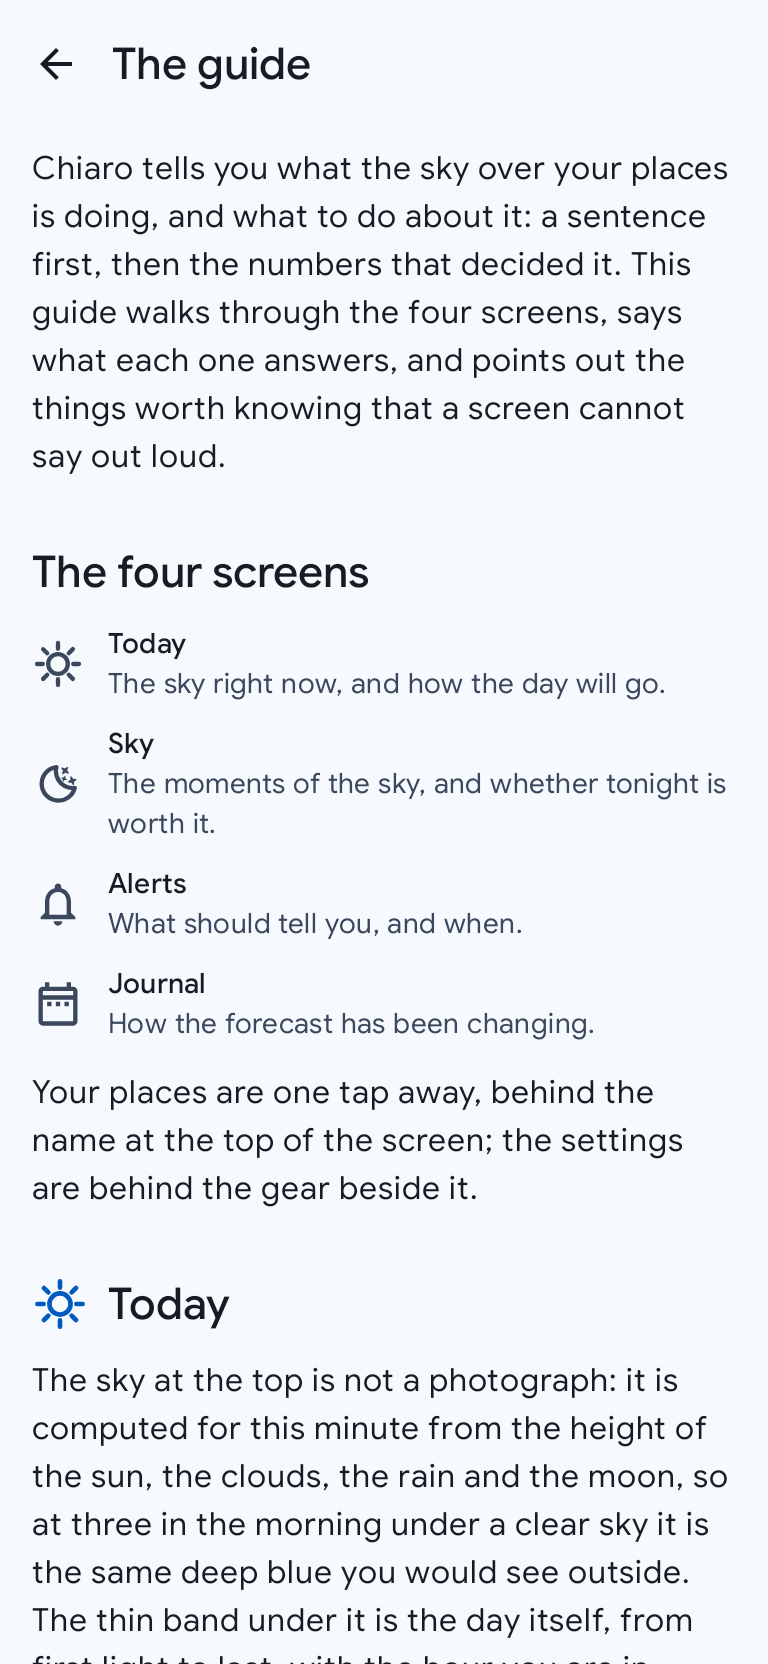
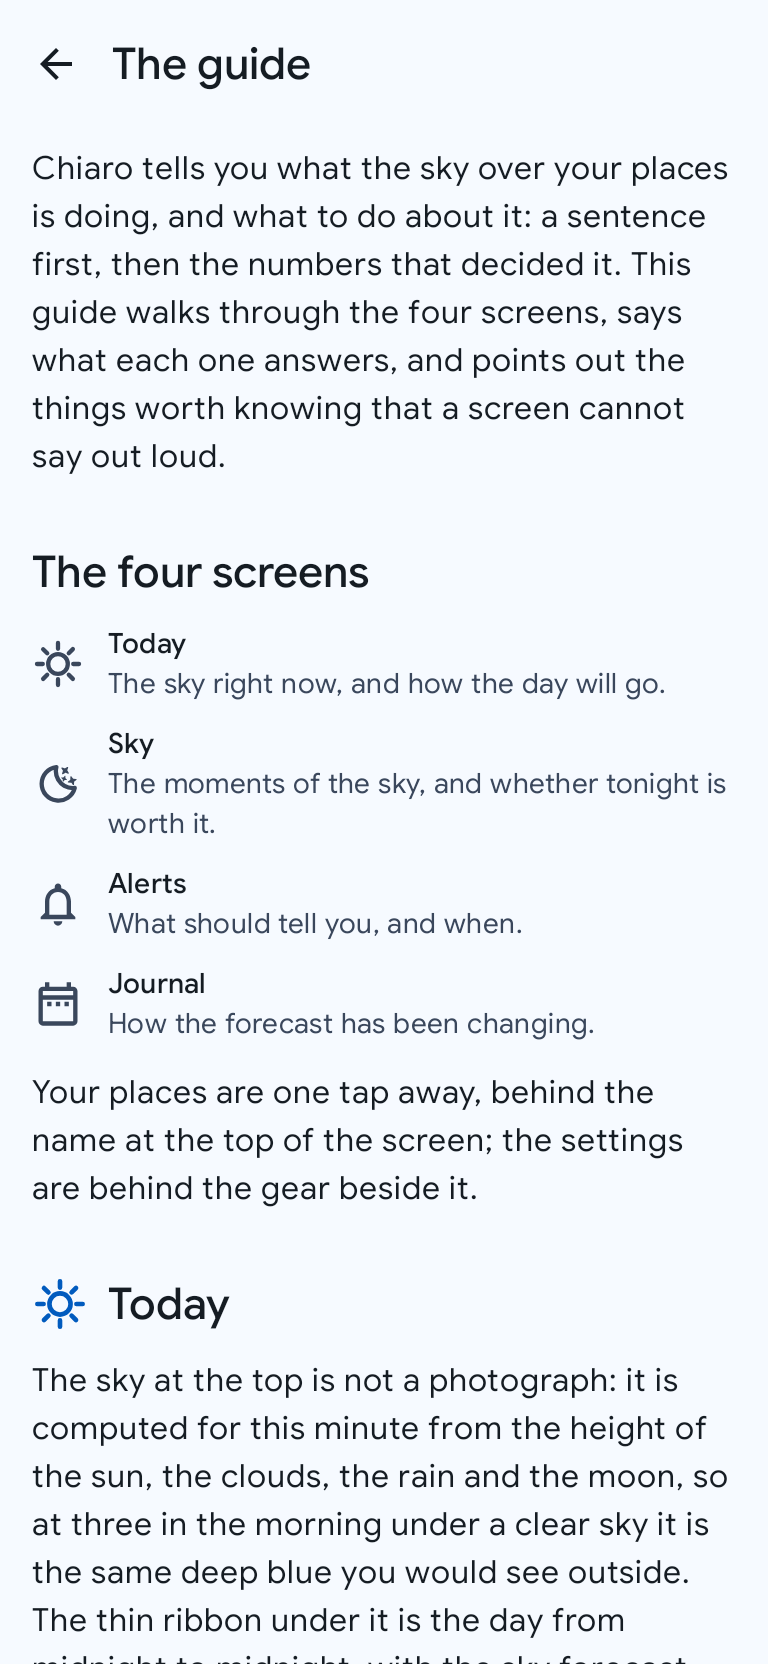
Guide: the week's two bars, explained and drawn
The guide described the ribbon as it was («from first light to last»,
«from dawn to dusk») and still listed the moon in the agenda and a
chance for every hour: four sentences this branch had made untrue.

- Corrected, in Italian and English: the ribbon is the day from midnight
  to midnight with the forecast sky, the spent part paler, sunrise and
  sunset written under it; the moon is on the Sky tab; the chance shows
  from 20%.
- Under «The week», a drawn example from the week's own DayRow: today
  with the dot on the range bar, tomorrow clouding over and raining from
  15 to 17, and a caption that says what to look at in each bar.
- PLANNING, CHANGELOG; guide.png regenerated.

Claude-Session: https://claude.ai/code/session_01PZBB3MnXk3HDK1abFqMvrz

Changed region(s): [[0.2188, 0.9688, 0.9062, 1.0]]

diff --git a/app/src/main/kotlin/com/callbackdev/chiaro/ui/guide/GuideScreen.kt b/app/src/main/kotlin/com/callbackdev/chiaro/ui/guide/GuideScreen.kt
@@ -41,8 +41,12 @@ import androidx.compose.ui.res.stringResource
 import androidx.compose.ui.tooling.preview.Preview
 import androidx.compose.ui.unit.dp
 import com.callbackdev.chiaro.R
+import com.callbackdev.chiaro.domain.settings.TemperatureUnit
+import com.callbackdev.chiaro.ui.components.DayRow
 import com.callbackdev.chiaro.ui.components.FreshnessChip
+import com.callbackdev.chiaro.ui.components.LightPhase
 import com.callbackdev.chiaro.ui.components.MetricTile
+import com.callbackdev.chiaro.ui.components.RibbonHour
 import com.callbackdev.chiaro.ui.components.humidityTrack
 import com.callbackdev.chiaro.ui.components.uvTrack
 import com.callbackdev.chiaro.ui.components.VerdictChip
@@ -51,6 +55,7 @@ import com.callbackdev.chiaro.ui.format.Formats
 import com.callbackdev.chiaro.ui.format.LocalClock
 import com.callbackdev.chiaro.ui.format.currentLocale
 import com.callbackdev.chiaro.ui.icons.ChiaroIcons
+import com.callbackdev.chiaro.ui.icons.ConditionGlyph
 import com.callbackdev.chiaro.ui.sky.SkyText
 import com.callbackdev.chiaro.ui.theme.ChiaroTheme
 import com.callbackdev.chiaro.ui.theme.forText
@@ -154,6 +159,8 @@ private fun GuideContent(onOpenSkyGuide: () -> Unit, modifier: Modifier = Modifi
             stringResource(R.string.guide_today_week_title),
             stringResource(R.string.guide_today_week_body)
         )
+        WeekSample()
+        Caption(stringResource(R.string.guide_today_week_caption))
         Feature(
             stringResource(R.string.guide_today_details_title),
             stringResource(R.string.guide_today_details_body)
@@ -462,6 +469,68 @@ private fun FreshnessSample() {
         age = pluralStringResource(R.plurals.freshness_hours_ago, 2, 2),
         onRetry = {}
     )
+}
+
+/**
+ * Two rows of the week, drawn by the week's own [DayRow] (13 ott 2026): the two bars on
+ * the screen that ask to be decoded rather than read, so the guide shows them and its
+ * caption says what to look at. Today is clear, with the dot on the range bar and the
+ * spent morning faded; tomorrow clouds over after lunch and rains from 15 to 17, with
+ * the wet lane under its ribbon. The days are the real ones, as the drift strip's are;
+ * the light is a generic mid-latitude day and the numbers are the example.
+ */
+@Composable
+private fun WeekSample() {
+    val locale = currentLocale()
+    val today = LocalDate.now(LocalClock.current)
+    val phases = listOf(
+        LightPhase(0f, 0.22f, -30.0),
+        LightPhase(0.22f, 0.25f, -15.0),
+        LightPhase(0.25f, 0.27f, -9.0),
+        LightPhase(0.27f, 0.29f, -4.0),
+        LightPhase(0.29f, 0.32f, 2.0),
+        LightPhase(0.32f, 0.76f, 30.0),
+        LightPhase(0.76f, 0.79f, 2.0),
+        LightPhase(0.79f, 0.81f, -4.0),
+        LightPhase(0.81f, 0.83f, -9.0),
+        LightPhase(0.83f, 0.86f, -15.0),
+        LightPhase(0.86f, 1f, -30.0)
+    )
+    fun hours(cloud: (Int) -> Int, chance: (Int) -> Int, wet: (Int) -> Boolean) =
+        (0..24).map { h -> RibbonHour(h / 24f, cloud(h), chance(h), wet(h) && h < 24) }
+    val clear = hours({ 10 }, { 0 }, { false })
+    val turning = hours(
+        cloud = { h -> when { h < 11 -> 15; h < 14 -> 15 + (h - 10) * 25; h < 21 -> 100; else -> 60 } },
+        chance = { h -> if (h in 15..17) 70 else 5 },
+        wet = { h -> h in 15..17 }
+    )
+    val days = listOf(
+        Triple(stringResource(R.string.week_today), Triple(12.0, 21.0, 0), clear),
+        Triple(Formats.dayLabel(today.plusDays(1), locale), Triple(10.0, 16.0, 70), turning)
+    )
+    Column(verticalArrangement = Arrangement.spacedBy(12.dp)) {
+        days.forEachIndexed { i, (label, range, sky) ->
+            val (low, high, pct) = range
+            DayRow(
+                dayLabel = label,
+                condition = ConditionGlyph(if (i == 0) 0 else 61),
+                rainPct = pct,
+                rainLabel = pct.takeIf { it >= 20 }?.let { Formats.percent(it, locale) },
+                lowC = low,
+                highC = high,
+                lowLabel = Formats.temperature(low, TemperatureUnit.CELSIUS, locale),
+                highLabel = Formats.temperature(high, TemperatureUnit.CELSIUS, locale),
+                scaleLowC = 10.0,
+                scaleHighC = 21.0,
+                phases = phases,
+                description = stringResource(R.string.guide_today_week_caption),
+                nowC = if (i == 0) 17.0 else null,
+                sky = sky,
+                wetLane = true,
+                skyFrom = if (i == 0) 0.42f else 0f
+            )
+        }
+    }
 }
 
 /** Two tiles of the details grid: the value, and the line that says what to do. */

diff --git a/PLANNING.md b/PLANNING.md
@@ -11934,3 +11934,43 @@ accettate: «implementa le tue tre proposte».
   l'agenda completa che arriva oltre mezzanotte resta quella del widget.
 - `RestOfDayTest`: tolti i due test del conto che saltava la luna, resta quello dell'apertura.
 - `./gradlew test :app:testDebugUnitTest :app:lintDebug :app:assembleDebug`.
+
+## La guida: le due barre della settimana (committente, 13 ott 2026)
+
+Domanda del committente: le due «etichette» della schermata, la barra delle temperature e il
+nastro del giorno, sono spiegate nella guida? Per un nuovo utente non sono intuitive.
+
+Verificato: in parte, e con **quattro frasi rese false da questa stessa PR** (non aggiornate
+quando si sono cambiate le schermate, ed era da fare insieme): il nastro «dalla prima luce
+all'ultima» e «dall'alba al tramonto» (va da mezzanotte a mezzanotte, e ora porta il cielo, la
+pioggia, il passato attenuato e gli orari), la luna nell'agenda (tolta), la probabilità per
+ogni ora (ora dal 20%). La barra delle temperature era spiegata solo nella scala comune, non in
+cosa va da dove a dove, nei colori e nel pallino di adesso.
+
+### Cosa è cambiato
+
+- Le quattro frasi corrette, IT/EN: `guide_today_p1`, `guide_today_hours_body`,
+  `guide_today_rest_body`, `guide_today_week_body`.
+- **Un esempio disegnato** sotto «La settimana» (`WeekSample`): due righe vere di `DayRow`, oggi
+  sereno con il pallino e la mattina passata sbiadita, domani che si copre dopo pranzo e piove
+  dalle 15 alle 17 con la corsia delle ore bagnate; la didascalia dice cosa guardare in ciascuna
+  barra. I giorni sono quelli veri (come la striscia del Diario nella guida), la luce è una
+  giornata generica di media latitudine, i numeri sono l'esempio.
+- `guide.png` rigenerato (in fondo mostra il nuovo testo sul nastro); l'esempio è stato
+  guardato in uno screenshot temporaneo, poi tolto.
+
+### Decisioni e deviazioni
+
+- **La prima didascalia diceva «scuro di notte»**, giusto per il nastro sul cielo e sbagliato per
+  le righe, dove la notte sbiadisce verso il fondo della barra: visto nello screenshot e corretto
+  in «tenue alle due estremità, che sono la notte».
+- **Le temperature dell'esempio sono in °C** anche per chi usa i Fahrenheit: la guida non riceve
+  le unità del lettore, e la didascalia non cita numeri. Da rivedere se la guida le riceverà.
+- Nessun esempio della striscia sul cielo: il paragrafo d'apertura lo descrive, e il cielo vero
+  è a un tocco dalla guida.
+
+### Come è stato verificato
+
+- Screenshot temporaneo della sezione (inglese, tema chiaro), guardato, poi rimosso insieme al
+  test che lo disegnava.
+- `./gradlew test :app:testDebugUnitTest :app:lintDebug :app:assembleDebug`.

diff --git a/CHANGELOG.md b/CHANGELOG.md
@@ -31,6 +31,8 @@ sections are a normal size and live here alone.
 - **An open day starts at dawn**, not at midnight.
 - **The rest of the day**: the golden and blue hours say when they end, and the moon's rising
   and setting stay on the Sky tab.
+- **The guide explains the week's two bars** with a drawn example, and no longer describes the
+  ribbon as it was before.
 - **Warmer or cooler than yesterday.** On a quiet day the sentence says when today's high is
   three degrees or more from yesterday's, from what Chiaro already kept: no extra download.
 - **Pressure says which way it is going**: rising, falling or falling fast over the next three
